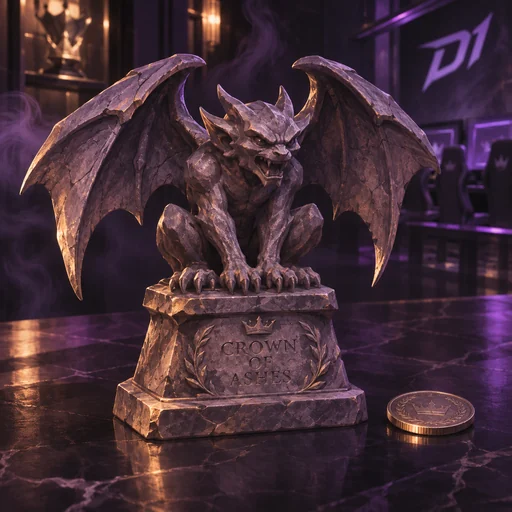
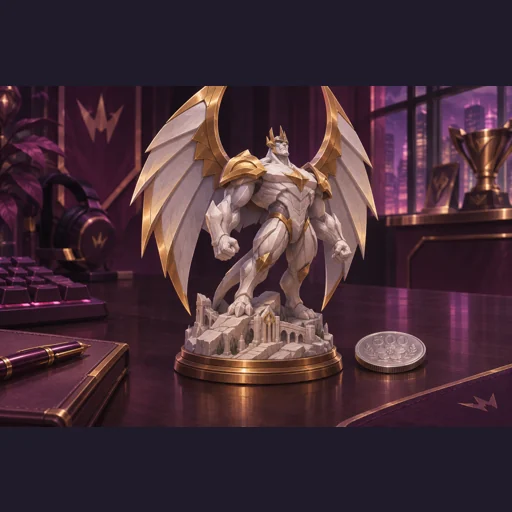
Align the miniature and poster with the Galio statue

diff --git a/mystery-content/ART_AUDIT.md b/mystery-content/ART_AUDIT.md
@@ -96,3 +96,7 @@
 ## 재개 지점
 
 D1 사옥의 41번째 카드 `time_dinner_receipt`부터 다음 10장을 대조한다. D1 31장, 마지막 하트 56장, 네온 검역국 54장, 성하 영재관 48장이 남아 있다.
+
+## 추가 디자인 지정
+
+거대한 전시 석상, 차지우의 미니어처, 돌가고일 포스터를 리그 오브 레전드 기본 갈리오의 흰 석재 몸체와 금빛 날개 구조로 새로 제작했다. 맥은 반문, 구체적 가정, 게임 비유를 사용하는 창작 대사와 연기 지침을 개인 책자에 추가했다.
